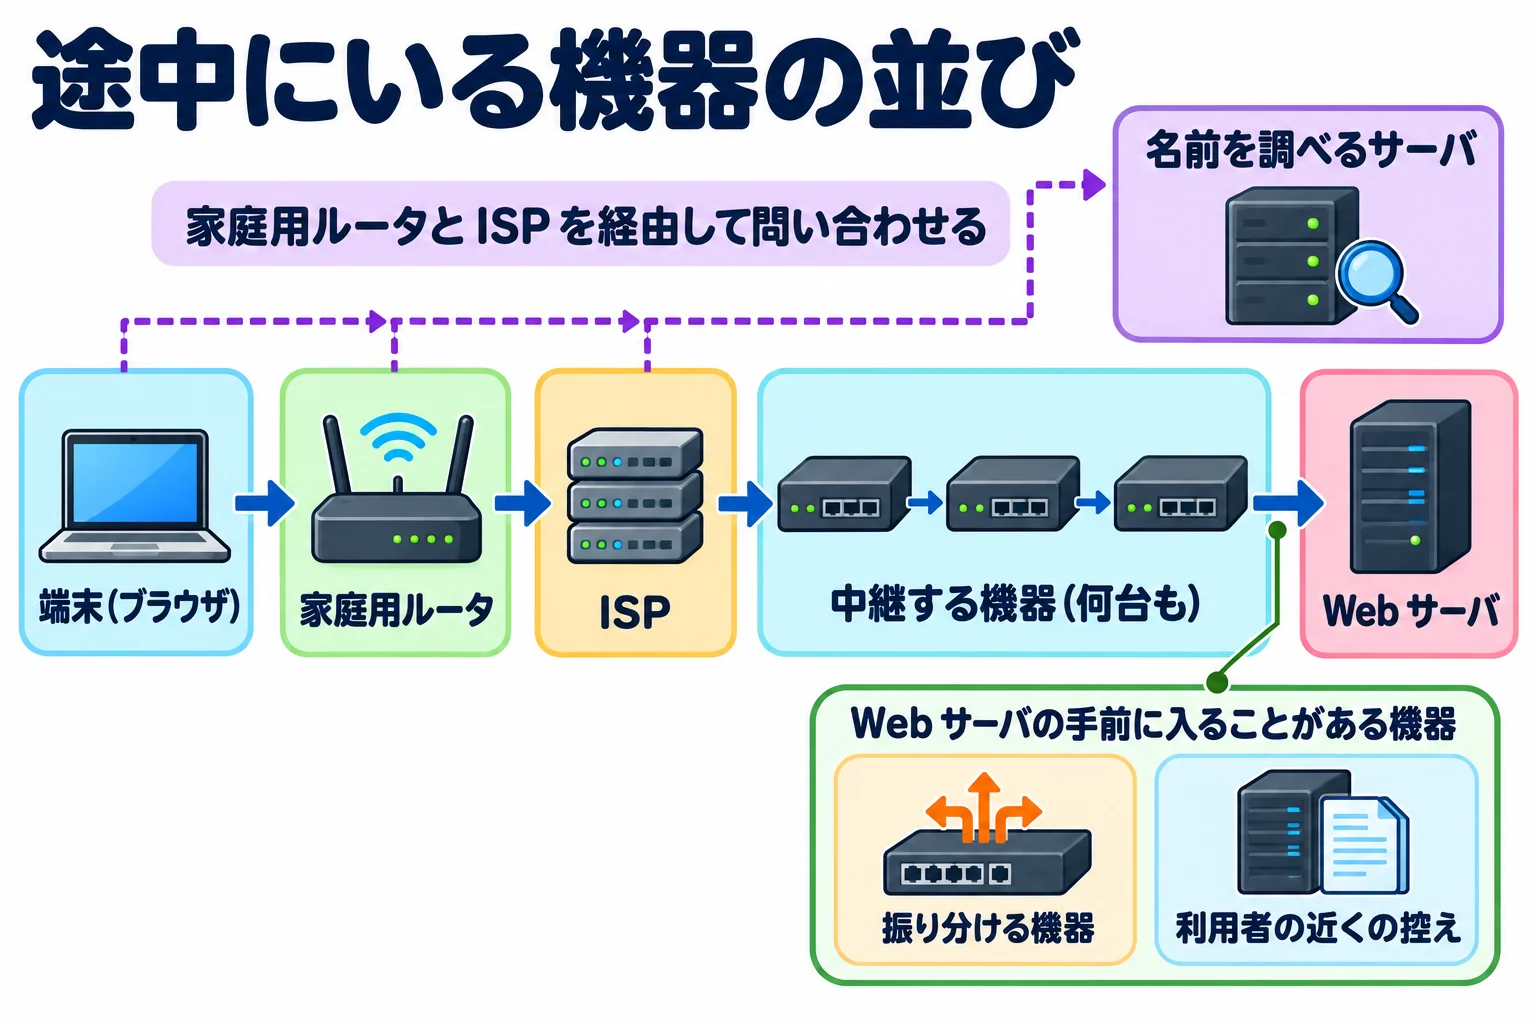
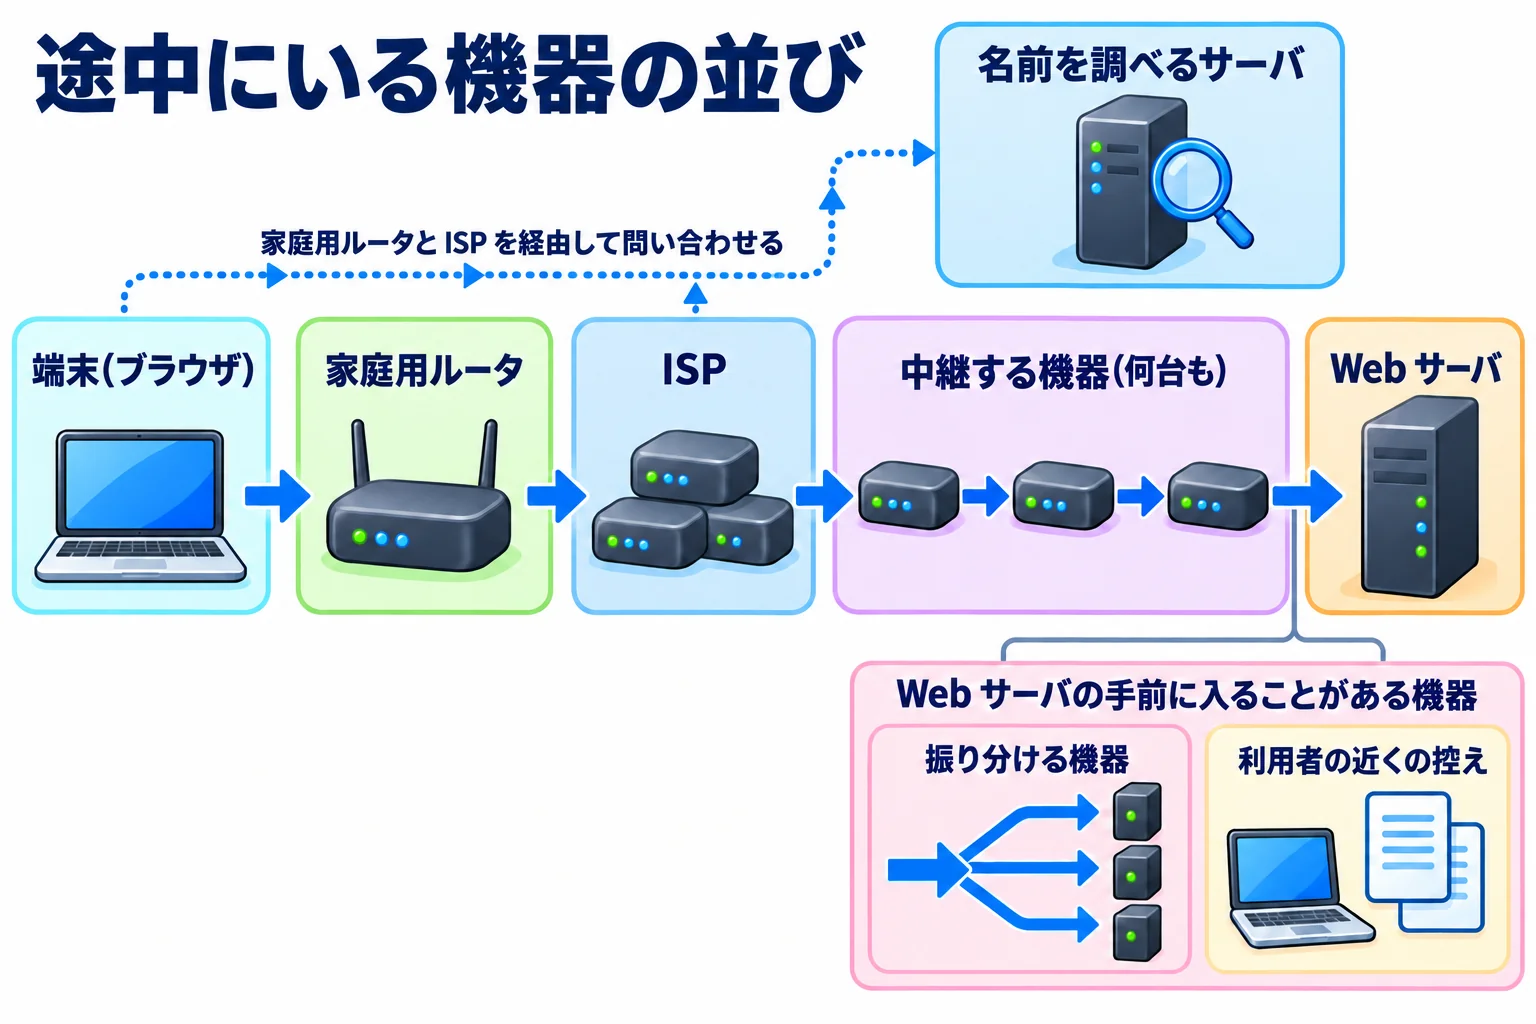
deploy: 5f017a3 2026-10-20

diff --git a/m01-3.html b/m01-3.html
@@ -28,7 +28,7 @@
     <p class="t" data-who="ふくろう先生">全体はこう並んでいます。まず手元の端末から、<a class="term" href="glossary.html#home-router" data-term="home-router">家庭用ルータ</a>につながります。ネットワークの出入り口としての役割に加えて、家庭内のアドレス配布やアドレス変換なども 1 台でこなす機器です。</p>
 
     <div class="fig-sec">
-    <img src="assets/fig/m01-3-devices.webp" alt="途中にいる機器の並びの図。左から右へ、端末(ブラウザ) → 家庭用ルータ → ISP → 中継する機器(何台も) → Web サーバ が矢印でつながる。上に「名前を調べるサーバ」があり、端末から家庭用ルータと ISP を経由して問い合わせる点線の矢印が伸びる。Web サーバの手前に「Web サーバの手前に入ることがある機器」として「振り分ける機器」と「利用者の近くの控え」が置かれている。" width="1536" height="1024" loading="lazy">
+    <img src="assets/fig/m01-3-devices.webp" alt="途中にいる機器の並びの図。左から右へ、端末(ブラウザ) → 家庭用ルータ → ISP → 中継する機器(何台も) → Web サーバ が矢印でつながる。上に「名前を調べるサーバ」があり、端末から家庭用ルータと ISP を経由して問い合わせる点線の矢印が伸びる。Web サーバの手前に「Web サーバの手前に入ることがある機器」として、「振り分ける機器」(1 本の矢印が 3 台の小さなサーバへ分かれる記号)と「利用者の近くの控え」(利用者のノート PC のそばに置かれた書類の複製)が置かれている。中継する機器と ISP は差し込み口の無い丸みのある箱で描かれ、スイッチの見た目ではない。" width="1536" height="1024" loading="lazy">
     <!-- 画像の文字版。画面には出さず、検索や HTML を読む AI が読めるように残す -->
     <pre class="fig" hidden>途中にいる機器の並び
 
@@ -51,7 +51,7 @@ Web サーバの手前に入ることがある機器
     <p class="s" data-who="ひよこちゃん">さっき出てきた<a class="term" href="glossary.html#dns" data-term="dns">DNS</a> サーバはどこにいるんですか? 家庭用ルータの中?</p>
     <p class="t" data-who="ふくろう先生">家庭用ルータの中とは限りません。ISP が用意した別のサーバか、公開されている DNS サーバに、家庭用ルータや ISP の回線を経由して問い合わせに行きます。</p>
     <p class="s" data-who="ひよこちゃん">じゃあサーバの手前にも何かいたりするんですか?</p>
-    <p class="t" data-who="ふくろう先生">規模の大きいサービスだと、複数台のサーバにリクエストを振り分ける<a class="term" href="glossary.html#load-balancer" data-term="load-balancer">ロードバランサ</a>や、利用者の近くにコンテンツの控えを用意しておく<a class="term" href="glossary.html#cdn" data-term="cdn">CDN</a>が手前にいることがあります。</p>
+    <p class="t" data-who="ふくろう先生">規模の大きいサービスだと、複数台のサーバにリクエストを振り分ける<a class="term" href="glossary.html#load-balancer" data-term="load-balancer">ロードバランサ</a>や、利用者の近くにコンテンツの控えを用意しておく<a class="term" href="glossary.html#cdn" data-term="cdn">CDN</a>が手前にいることがあります。図の「振り分ける機器」がロードバランサ、「利用者の近くの控え」が CDN です。</p>
     <p class="s" data-who="ひよこちゃん">ロードバランサと CDN、何が違うんですか?</p>
     <p class="t" data-who="ふくろう先生">ロードバランサは自社の複数サーバへの振り分け、CDN は利用者の近くへのコンテンツ配置と、目的が違います。どちらも詳しくは後の章(第 22・23 章)で扱います。</p>
     <p class="s" data-who="ひよこちゃん">機器の名前だけでもこんなに出てくるんですね…</p>
